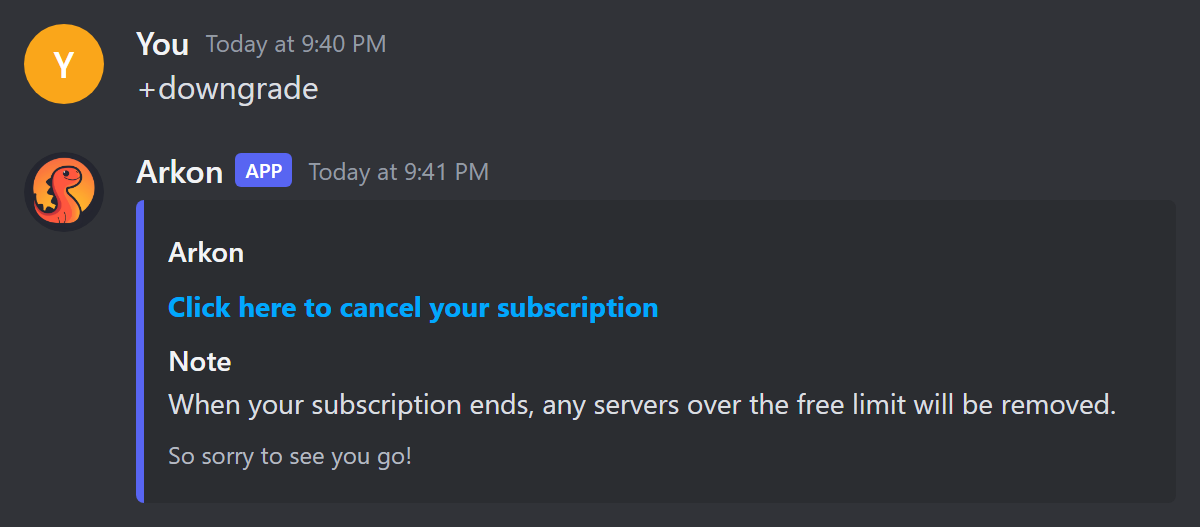
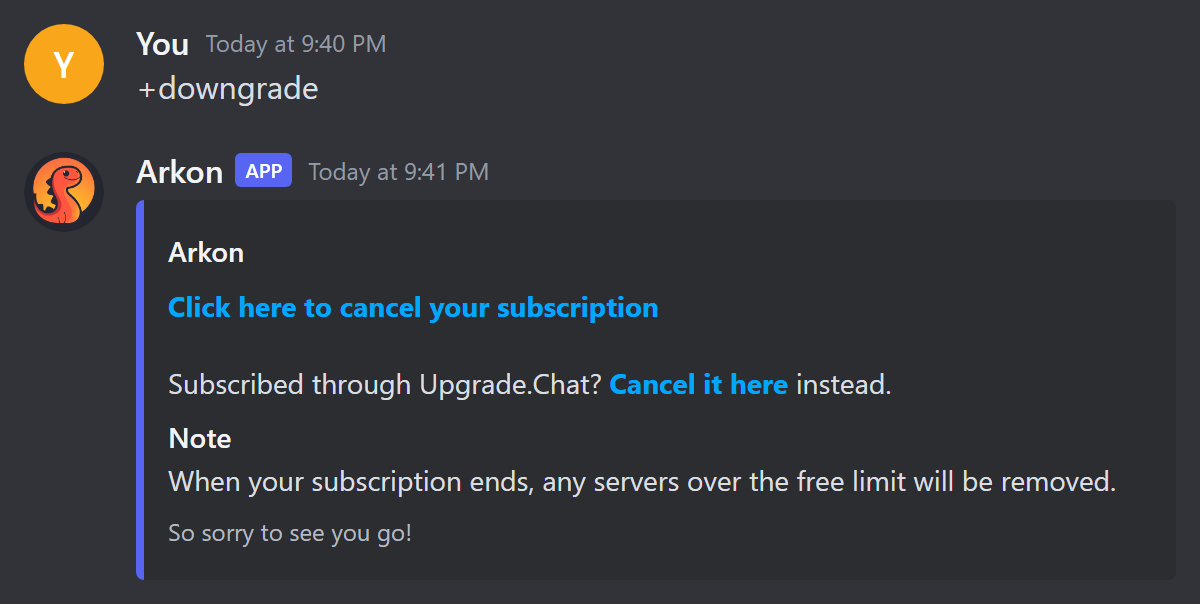
Point Arkon Premium buy and cancel links at GlassRelay instead of Upgrade.Chat

diff --git a/guides/premium.md b/guides/premium.md
@@ -2,7 +2,7 @@
 title: Arkon Premium - Free vs Premium - Arkon Ark Discord Bot
 description: See what Arkon gives every Ark Discord server for free, what Premium unlocks, what it costs, how to buy it and how to cancel it.
 published: true
-date: 2026-10-12T00:00:00.000Z
+date: 2026-10-25T00:00:00.000Z
 tags: premium, pricing, upgrade, free, cancel
 editor: markdown
 dateCreated: 2024-12-19T23:11:32.671Z
@@ -10,7 +10,7 @@ dateCreated: 2024-12-19T23:11:32.671Z
 
 # Arkon Premium: Free vs Premium
 
-Arkon is free to start. Premium removes the limits (up to 100 servers instead of 1, longer graphs) and unlocks a few extra tools. It costs $10/month and you buy it on Upgrade.Chat (a payment site that Arkon uses).
+Arkon is free to start. Premium removes the limits (up to 100 servers instead of 1, longer graphs) and unlocks a few extra tools. It costs $10/month after a 3 day free trial, and you buy it on [GlassRelay](https://glassrelay.com/arkon) (the store site Arkon uses).
 
 **You need:**
 
@@ -23,7 +23,7 @@ The owner buys Premium. Arkon then sees that the owner holds a Premium role in t
 
 ```mermaid
 graph LR
-A["Server owner runs +upgrade"] --> B["Pays on Upgrade.Chat"]
+A["Server owner runs +upgrade"] --> B["Pays on GlassRelay"]
 B --> C["Gets a Premium role<br/>in the Arkon support Discord"]
 C --> D["Arkon sees the role"]
 D --> E["Your Discord server<br/>is Premium"]
@@ -70,7 +70,7 @@ These have no Premium lock: game chat relay, live status channel, economy and sh
 
 1. In any Discord channel Arkon can see, type `+upgrade`. (Aliases: `+donate`, `+donatelink`, `+getpremium`. Anyone can run it.)
 2. Click the green link in the message.
-3. Pay on Upgrade.Chat. Log in with the Discord account that **owns** your Discord server.
+3. Pay on GlassRelay. Log in with the Discord account that **owns** your Discord server.
 4. Make sure that account is in the Arkon support Discord.
 5. Check it worked: wait a few minutes, then type `+serverstatus time 43200` in a channel Arkon can see (this sets your status graph to 12 hours, and you can change it back later). If Premium is active, Arkon replies "Status channel graph time set!". On Free it replies that the free version allows only 1 hour.
 
@@ -82,10 +82,13 @@ These have no Premium lock: game chat relay, live status channel, economy and sh
 ## Cancel Premium
 
 1. Type `+downgrade`. (Anyone can run it.)
-2. Click the link. It opens your Upgrade.Chat profile.
+2. Click the first link. It opens your purchases page on GlassRelay.
 3. Cancel the subscription there. The command does not cancel anything by itself.
 
-<img src="/assets/guide-premium-downgrade.png" alt="The downgrade message" style="width: 600px; max-width: 100%;"/>
+> Bought Premium before Arkon moved to GlassRelay? Use the second link in the same message instead. It opens the store you bought it from.
+{.is-info}
+
+<img src="/assets/guide-premium-downgrade.png?v=2" alt="The downgrade message" style="width: 600px; max-width: 100%;"/>
 
 ## What happens when Premium ends
 

diff --git a/home.md b/home.md
@@ -2,7 +2,7 @@
 title: Arkon - All-in-One Ark Discord Bot Guide
 description: Arkon is a Discord bot that runs your Ark ASE and ASA servers from chat. Pick your path, follow the setup roadmap and find a simple guide for every feature.
 published: true
-date: 2026-10-14T00:00:00.000Z
+date: 2026-10-25T00:00:00.000Z
 tags: ark, discord-bot, server-management, ase, asa, rcon, guide
 editor: markdown
 dateCreated: 2023-12-10T05:13:31.603Z
@@ -19,7 +19,7 @@ Arkon is a Discord bot that connects to your Ark: Survival Evolved (ASE) and Ark
 
 - [Invite Arkon](https://discord.com/api/oauth2/authorize?client_id=857070505294430218&permissions=433188236503&scope=applications.commands%20bot) - add the bot to your Discord server 🦖
 - [Discord Support Server](https://discord.gg/RaR3wR4MgY) - get help or request features
-- [Arkon Premium](https://upgrade.chat/arkon) - unlock Premium features (see [Free vs Premium](/guides/premium))
+- [Arkon Premium](https://glassrelay.com/arkon) - unlock Premium features (see [Free vs Premium](/guides/premium))
 
 ---
 
